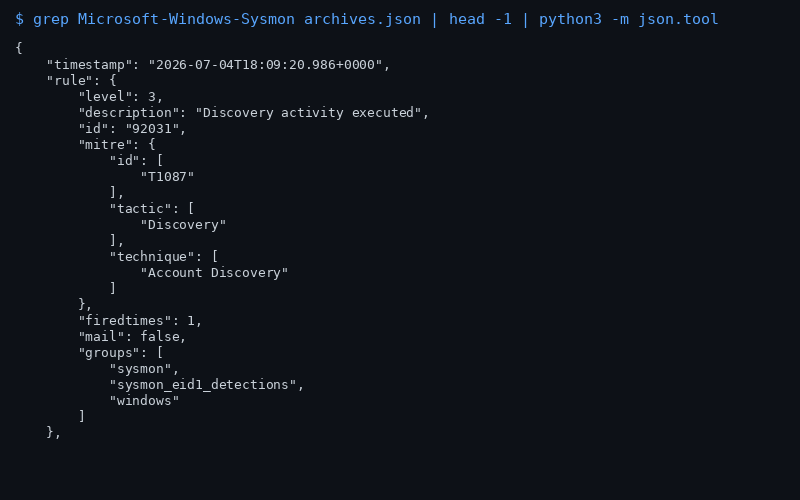
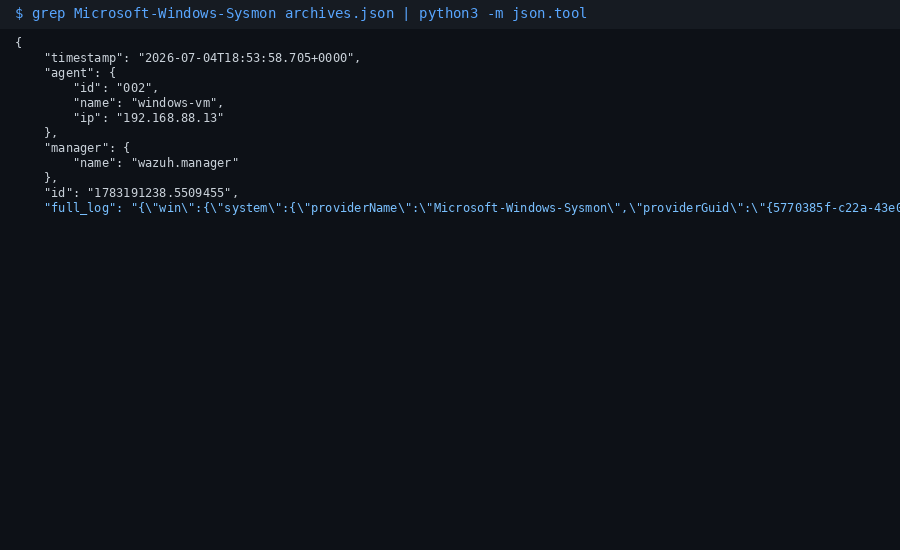
docs: 7 real PNG screenshots — lab status, agents, canary, sysmon, dry-run proof, tests

diff --git a/docs/index.html b/docs/index.html
@@ -208,29 +208,25 @@ Canary: DETECTED on windows (evidence: 4 events)</pre>
 <!-- ============ EVIDENCE ============ -->
 <h2>6. Evidence — Proof of Detection</h2>
 
-<h3>6.1 Pipeline Canary — Live Run</h3>
-<img src="evidence/canary-run.png" alt="Pipeline canary live run" style="width:100%;max-width:800px;border:1px solid var(--border);border-radius:8px;margin:1em 0">
+<h3>6.1 Lab Status — All Containers Running</h3>
+<img src="evidence/lab-status.png" alt="Docker ps showing Wazuh stack running" style="width:100%;max-width:900px;border:1px solid var(--border);border-radius:8px;margin:1em 0">
 
-<h3>6.2 Windows Sysmon Detection — Proof Chain</h3>
-<pre style="background:var(--card);padding:1em;border-radius:8px;overflow-x:auto;font-size:.8em">
-{
-  "technique_id": "T1059.004",
-  "verdict": <span style="color:var(--green)">"DETECTED"</span>,
-  "rule_matched": "detections/windows/win_proc_create.yml",
-  "events_collected": 73,
-  "evidence": [{
-    "matched": true,
-    "Image": "C:\\Windows\\SysWOW64\\net.exe",
-    "CommandLine": "net.exe accounts",
-    "ParentImage": "C:\\Program Files (x86)\\ossec-agent\\wazuh-agent.exe",
-    "User": "NT AUTHORITY\\SYSTEM"
-  }]
-}</pre>
+<h3>6.2 Wazuh Agent List — Both Active</h3>
+<img src="evidence/agent-list.png" alt="Wazuh agent list showing both agents Active" style="width:100%;max-width:900px;border:1px solid var(--border);border-radius:8px;margin:1em 0">
 
-<h3>6.3 Wazuh — Raw Sysmon Event (Event ID 1)</h3>
-<img src="evidence/sysmon-event.png" alt="Real Wazuh Sysmon Event ID 1 captured from archives" style="width:100%;max-width:800px;border:1px solid var(--border);border-radius:8px;margin:1em 0">
+<h3>6.3 Pipeline Canary — Live Run</h3>
+<img src="evidence/canary-run.png" alt="Pipeline canary live run" style="width:100%;max-width:900px;border:1px solid var(--border);border-radius:8px;margin:1em 0">
 
-<h3>6.4 Coverage Report</h3>
+<h3>6.4 Sysmon Event ID 1 — Captured from Wazuh Archives</h3>
+<img src="evidence/sysmon-event.png" alt="Real Wazuh Sysmon Event ID 1" style="width:100%;max-width:900px;border:1px solid var(--border);border-radius:8px;margin:1em 0">
+
+<h3>6.5 Dry-Run Proof — Technique T1059.004 DETECTED</h3>
+<img src="evidence/dry-run-proof.png" alt="T1059.004 dry run returns DETECTED with rule_matched" style="width:100%;max-width:900px;border:1px solid var(--border);border-radius:8px;margin:1em 0">
+
+<h3>6.6 Go Tests — All Passing</h3>
+<img src="evidence/go-test.png" alt="All Go tests passing" style="width:100%;max-width:900px;border:1px solid var(--border);border-radius:8px;margin:1em 0">
+
+<h3>6.7 Coverage Report</h3>
 <p>Sample HTML output: <a href="https://github.com/jayelbotvibe-web/purple-loop/blob/main/reports/samples/coverage.html">reports/samples/coverage.html</a></p>
 
 <h3>6.5 Negative Test — Canary Fails When Pipeline Broken</h3>